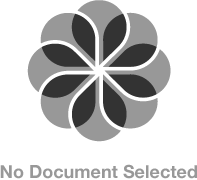
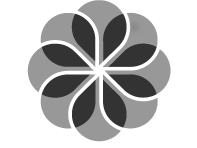
MOBILE-398: no document selected text converted to string from image and is localized

diff --git a/Classes/UserInterface/View Controllers/Ipad/PlaceholderViewController.m b/Classes/UserInterface/View Controllers/Ipad/PlaceholderViewController.m
@@ -76,25 +76,46 @@ static BOOL launchViewPresented = NO;
                                              endPoint:CGPointMake(0.5f,1.0f)];
     
     self.view = gradientView;
+    
+    UIView *noDocView = [[UIView alloc] init];
     UIImageView *imageView = [[UIImageView alloc] initWithImage:[UIImage imageNamed:@"no-document-selected.png"]];
     
     NSInteger gradientWidth = gradientView.frame.size.width;
     NSInteger gradientHeight = gradientView.frame.size.height;
-    NSInteger imageWidth = imageView.frame.size.width;
-    NSInteger imageHeight = imageView.frame.size.height;
-    CGRect imageFrame = CGRectMake(0, 0, imageWidth, imageHeight);
+    NSInteger imageWidth = imageView.frame.size.width + 40;
+    NSInteger imageHeight = imageView.frame.size.height + 40;
+    CGRect noDocViewFrame = CGRectMake(0, 0, imageWidth, imageHeight);
     
     //image is centered in the x axis
-    imageFrame.origin.x = (int) ((gradientWidth / 2) - (imageWidth / 2));
+    noDocViewFrame.origin.x = (int) ((gradientWidth / 2) - (imageWidth / 2));
     //image top is at one third the view height
-    imageFrame.origin.y = (int) (gradientHeight / 3);
-    imageView.frame = imageFrame;
+    noDocViewFrame.origin.y = (int) (gradientHeight / 3);
+    noDocView.frame = noDocViewFrame;
+    
+    // Alligning imageview to center of noDocView
+    CGRect imageViewFrame = imageView.frame;
+    imageViewFrame.origin.x = (noDocView.frame.size.width - imageView.frame.size.width) / 2;
+    imageView.frame = imageViewFrame;
+    
+    UILabel *noDocText = [[UILabel alloc] initWithFrame:CGRectMake(0, imageView.frame.size.height, noDocView.frame.size.width, 40)];
+    noDocText.backgroundColor = [UIColor clearColor];
+    noDocText.textAlignment = UITextAlignmentCenter;
+    noDocText.textColor = [UIColor colorWithRed:152/255.0 green:152/255.0 blue:152/255.0 alpha:1.0];
+    noDocText.font = [UIFont boldSystemFontOfSize:18];
+    noDocText.text = NSLocalizedString(@"no.document.selected.text", @"NO Document Selected");
     
     imageView.autoresizingMask = (UIViewAutoresizingFlexibleTopMargin | UIViewAutoresizingFlexibleBottomMargin | UIViewAutoresizingFlexibleLeftMargin | UIViewAutoresizingFlexibleRightMargin);
     
-    [self.view addSubview:imageView];
+    noDocView.autoresizingMask = (UIViewAutoresizingFlexibleTopMargin | UIViewAutoresizingFlexibleBottomMargin | UIViewAutoresizingFlexibleLeftMargin | UIViewAutoresizingFlexibleRightMargin);
+    
+    [noDocView addSubview:imageView];
+    [noDocView addSubview:noDocText];
+    
+    [self.view addSubview:noDocView];
+    
     [gradientView release];
     [imageView release];
+    [noDocView release];
 }
 
 - (BOOL) shouldAutorotateToInterfaceOrientation:(UIInterfaceOrientation)toInterfaceOrientation {
